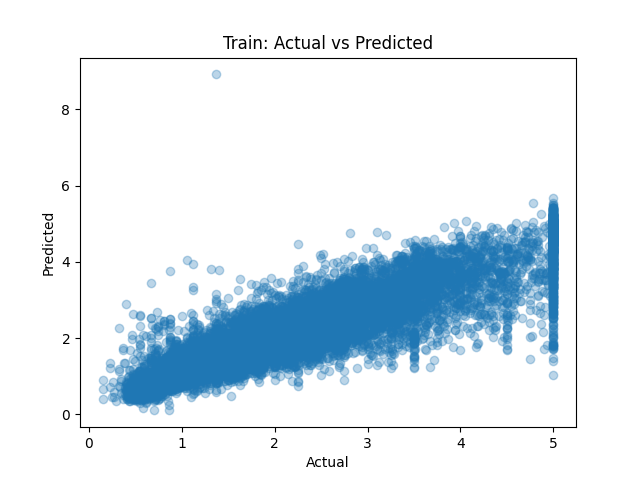
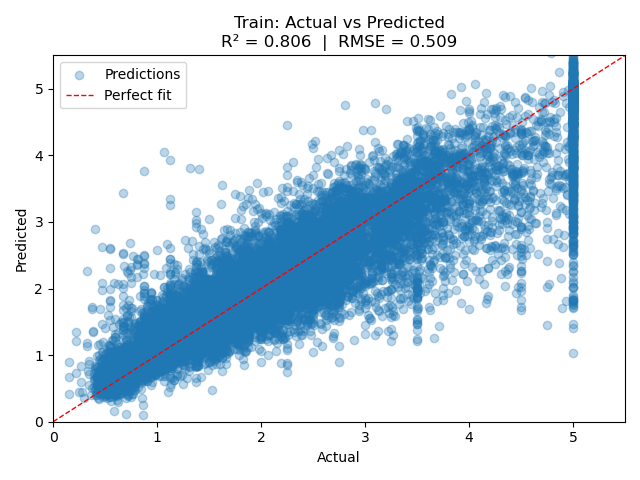
PR #5: Improve plots, labels, titles, and hyperparameters

diff --git a/src/ds_pipeline.py b/src/ds_pipeline.py
@@ -4,7 +4,10 @@ from sklearn.datasets import fetch_california_housing
 from sklearn.model_selection import train_test_split
 from sklearn.neural_network import MLPRegressor
 from sklearn.preprocessing import StandardScaler
+from sklearn.metrics import r2_score, mean_squared_error
+import numpy as np
 
+FIGURES_DIR = os.path.join(os.path.dirname(__file__), "..", "figures")
 
 # Load dataset
 housing = fetch_california_housing()
@@ -12,9 +15,9 @@ X, y = housing.data, housing.target
 
 # Train/test split
 X_train, X_test, y_train, y_test = train_test_split(X, y, test_size=0.2, random_state=42)
+
 # Scale data
 scaler = StandardScaler()
-
 X_train_scaled = scaler.fit_transform(X_train)
 X_test_scaled = scaler.transform(X_test)
 
@@ -32,41 +35,41 @@ mlp = MLPRegressor(
 
 # Train model
 mlp.fit(X_train_scaled, y_train)
-
 print("MLPRegressor model trained successfully")
 
-# Train predictions
+os.makedirs(FIGURES_DIR, exist_ok=True)
+
+
+def plot_actual_vs_pred(y_true, y_pred, split_name, filename):
+    r2 = r2_score(y_true, y_pred)
+    rmse = np.sqrt(mean_squared_error(y_true, y_pred))
+
+    fig, ax = plt.subplots()
+    ax.scatter(y_true, y_pred, alpha=0.3, label="Predictions")
+
+    ax_max = 5.5
+    ax.plot([0, ax_max], [0, ax_max], "r--", linewidth=1, label="Perfect fit")
+    ax.set_xlim(0, ax_max)
+    ax.set_ylim(0, ax_max)
+
+    ax.set_xlabel("Actual")
+    ax.set_ylabel("Predicted")
+    ax.set_title(f"{split_name}: Actual vs Predicted\nR² = {r2:.3f}  |  RMSE = {rmse:.3f}")
+    ax.legend()
+    fig.tight_layout()
+    fig.savefig(filename)
+    plt.close(fig)
+
+    print(f"{split_name} - R²: {r2:.4f}, RMSE: {rmse:.4f}")
+    print(f"{split_name} plot saved to {filename}")
+
+
+# Train predictions + plot
 y_train_pred = mlp.predict(X_train_scaled)
+plot_actual_vs_pred(y_train, y_train_pred, "Train",
+                    os.path.join(FIGURES_DIR, "train_actual_vs_pred.png"))
 
-# Plot: actual vs predicted (train)
-os.makedirs("figures", exist_ok=True)
-
-plt.figure()
-plt.scatter(y_train, y_train_pred, alpha=0.3)
-plt.xlabel("Actual")
-plt.ylabel("Predicted")
-plt.title("Train: Actual vs Predicted")
-plt.savefig("figures/train_actual_vs_pred.png")
-plt.close()
-
-print("Train plot saved to figures/train_actual_vs_pred.png")
-import os
-import matplotlib.pyplot as plt
-
-print("MLPRegressor model trained successfully")
-
-# Test predictions
+# Test predictions + plot
 y_test_pred = mlp.predict(X_test_scaled)
-
-# Plot: actual vs predicted (test)
-os.makedirs("figures", exist_ok=True)
-
-plt.figure()
-plt.scatter(y_test, y_test_pred, alpha=0.3)
-plt.xlabel("Actual")
-plt.ylabel("Predicted")
-plt.title("Test: Actual vs Predicted")
-plt.savefig("figures/test_actual_vs_pred.png")
-plt.close()
-
-print("Test plot saved to figures/test_actual_vs_pred.png")
+plot_actual_vs_pred(y_test, y_test_pred, "Test",
+                    os.path.join(FIGURES_DIR, "test_actual_vs_pred.png"))
